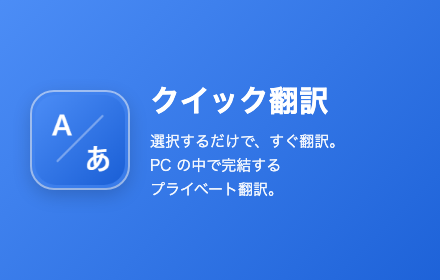
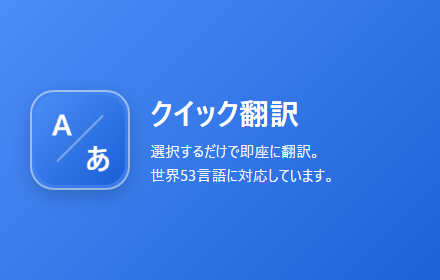
日本語以外は何でも翻訳する方式に戻し、Codex 監査の指摘に対応
- 翻訳する言語: 初期設定をすべての言語に戻し、設定画面でチェックを外した言語だけ翻訳しない(skipLangs)
- 英文にひらがな・カタカナが少し混ざるだけでは日本語扱いにしない
- 特殊トークンの除去を、なくなるまで繰り返す
- 右クリックは、今の選択が右クリックされた文章と同じときだけページ内で翻訳し、違うときは別ウィンドウで翻訳する
- ストア用画像の文言を変更(選択するだけで即座に翻訳、世界53言語に対応しています)
- 説明書・README・ストア掲載文を更新

Changed region(s): [[0.325, 0.2857, 0.7682, 0.7143]]

diff --git a/shared.js b/shared.js
@@ -1,19 +1,33 @@
 // content.js / background.js / options.js で共通の判定
 
-const DEFAULT_SOURCE_LANGS = ["en"]; // 初期設定で翻訳する言語
+// PLaMo 3 Translate の対応言語(よく使うものを先頭に)
+const LANGS = [
+  ["ja", "日本語"], ["en", "英語"], ["zh-hans", "中国語(簡体字)"], ["zh-hant", "中国語(繁体字)"],
+  ["ko", "韓国語"], ["fr", "フランス語"], ["de", "ドイツ語"], ["es", "スペイン語"], ["it", "イタリア語"],
+  ["ru", "ロシア語"], ["vi", "ベトナム語"], ["th", "タイ語"], ["id", "インドネシア語"], ["hi", "ヒンディー語"],
+  ["ar", "アラビア語"], ["nl", "オランダ語"], ["pl", "ポーランド語"], ["ms", "マレー語"], ["tl", "タガログ語"],
+  ["az", "アゼルバイジャン語"], ["be", "ベラルーシ語"], ["bg", "ブルガリア語"], ["bn", "ベンガル語"],
+  ["ca", "カタルーニャ語"], ["ceb", "セブアノ語"], ["et", "エストニア語"], ["eu", "バスク語"], ["fa", "ペルシア語"],
+  ["gu", "グジャラート語"], ["he", "ヘブライ語"], ["hr", "クロアチア語"], ["hu", "ハンガリー語"], ["hy", "アルメニア語"],
+  ["jv", "ジャワ語"], ["ka", "ジョージア語"], ["kk", "カザフ語"], ["km", "クメール語"], ["lt", "リトアニア語"],
+  ["lv", "ラトビア語"], ["ml", "マラヤーラム語"], ["mr", "マラーティー語"], ["my", "ビルマ語"], ["ne", "ネパール語"],
+  ["pa", "パンジャブ語"], ["si", "シンハラ語"], ["sk", "スロバキア語"], ["sl", "スロベニア語"], ["sr", "セルビア語"],
+  ["sw", "スワヒリ語"], ["ta", "タミル語"], ["te", "テルグ語"], ["ur", "ウルドゥー語"], ["uz", "ウズベク語"]
+];
 
 // 算用数字だけの選択(年号・金額・電話番号など)。桁区切りや日付の記号は数字の一部とみなす
 function isNumbersOnly(text) {
   return /\p{Nd}/u.test(text) && /^[\p{Nd}\s.,:\/+\-−．,:/+-]+$/u.test(text);
 }
 
-// ひらがな・カタカナを含めば日本語とみなす。
+// ひらがな・カタカナを含めば日本語とみなす。ただし、英文の中に日本語の語が少し混ざっているだけのときは除く
+// (ラテン文字が日本語の文字の 3 倍を超えるとき。「APIキーをGitHubで発行」のような文は日本語のまま)。
 // 「機械翻訳」のように漢字だけのときは中国語と区別できないので、ページが日本語なら日本語とみなす。
 function looksJapanese(text, pageLang) {
-  if (/[぀-ヿ]/.test(text)) return true;
-  const hasHan = /\p{Script=Han}/u.test(text);
-  const hasLatin = /\p{Script=Latin}/u.test(text);
-  return hasHan && !hasLatin && /^ja\b/i.test(pageLang || "");
+  const count = (re) => (text.match(re) || []).length;
+  const latin = count(/\p{Script=Latin}/gu);
+  if (/[぀-ヿ]/.test(text)) return latin <= count(/[぀-ヿ\p{Script=Han}]/gu) * 3;
+  return /\p{Script=Han}/u.test(text) && latin === 0 && /^ja\b/i.test(pageLang || "");
 }
 
 // 言語ごとの文字の種類。書いていない言語はラテン文字
@@ -41,16 +55,20 @@ async function detectLangs(text) {
   return result?.isReliable ? result.languages.map((l) => toModelLang(l.language)).filter((l) => l !== "und") : [];
 }
 
-// 選んだ文章が「翻訳する言語」に入っているか
-function isSourceAllowed(text, found, sourceLangs, targetLang) {
-  const langs = (sourceLangs ?? DEFAULT_SOURCE_LANGS).filter((l) => l !== targetLang);
-  if (found.length) return found.some((l) => langs.includes(l));
-  // 短い語句などで判定できないときは、文字の種類が合う言語が選ばれていれば翻訳する
-  return langs.some((l) => (LANG_SCRIPTS[l] || ["Latin"]).some((s) => new RegExp(`\\p{Script=${s}}`, "u").test(text)));
+// 選んだ文章を翻訳するか。翻訳先以外は何でも翻訳し、skipLangs(設定画面でチェックを外した言語)だけ除く
+function isSourceAllowed(text, found, skipLangs, targetLang) {
+  const skip = new Set(skipLangs || []);
+  if (found.length) return found[0] !== targetLang && !skip.has(found[0]);
+  if (!skip.size) return true;
+  // 短い語句などで判定できないときは、文字の種類で考える。
+  // その文字を使う言語がすべて除外されているときだけ翻訳しない(対応表にない文字は翻訳する)
+  const usesScript = (code) => (LANG_SCRIPTS[code] || ["Latin"]).some((s) => new RegExp(`\\p{Script=${s}}`, "u").test(text));
+  const matched = LANGS.map(([code]) => code).filter(usesScript);
+  return !matched.length || matched.some((code) => code !== targetLang && !skip.has(code));
 }
 
 // 翻訳先の言語を決める。翻訳しないときは target が "" で、reason にその理由が入る。
-// s は targetLang / altLang / sourceLangs を持つ設定
+// s は targetLang / altLang / skipLangs を持つ設定
 async function decideTarget(text, s, pageLang) {
   if (isNumbersOnly(text)) return { target: "", reason: "numbers" };
   const found = await detectLangs(text);
@@ -58,6 +76,6 @@ async function decideTarget(text, s, pageLang) {
   if (s.targetLang === "ja" && (looksJapanese(text, pageLang) || found[0] === "ja")) {
     return { target: s.altLang || "", reason: "japanese" };
   }
-  if (isSourceAllowed(text, found, s.sourceLangs, s.targetLang)) return { target: s.targetLang, reason: "" };
+  if (isSourceAllowed(text, found, s.skipLangs, s.targetLang)) return { target: s.targetLang, reason: "" };
   return { target: "", reason: "language" };
 }

diff --git a/options.js b/options.js
@@ -7,7 +7,7 @@ const DEFAULTS = {
   apiKey: "",
   targetLang: "ja",
   altLang: "", // "" = 日本語の文章は翻訳しない
-  sourceLangs: DEFAULT_SOURCE_LANGS,
+  skipLangs: [], // 翻訳しない言語(初期設定は、なし = 何でも翻訳する)
   keepTerms: "",
   autoKeepNames: false,
   form: "",
@@ -20,20 +20,6 @@ const LOCAL_SERVER_KEY = "plamo-select-translate";
 const BOOL_KEYS = ["useTitleContext", "autoTranslate", "autoKeepNames"];
 const $ = (id) => document.getElementById(id);
 
-// PLaMo 3 Translate の対応言語(よく使うものを先頭に)
-const LANGS = [
-  ["ja", "日本語"], ["en", "英語"], ["zh-hans", "中国語(簡体字)"], ["zh-hant", "中国語(繁体字)"],
-  ["ko", "韓国語"], ["fr", "フランス語"], ["de", "ドイツ語"], ["es", "スペイン語"], ["it", "イタリア語"],
-  ["ru", "ロシア語"], ["vi", "ベトナム語"], ["th", "タイ語"], ["id", "インドネシア語"], ["hi", "ヒンディー語"],
-  ["ar", "アラビア語"], ["nl", "オランダ語"], ["pl", "ポーランド語"], ["ms", "マレー語"], ["tl", "タガログ語"],
-  ["az", "アゼルバイジャン語"], ["be", "ベラルーシ語"], ["bg", "ブルガリア語"], ["bn", "ベンガル語"],
-  ["ca", "カタルーニャ語"], ["ceb", "セブアノ語"], ["et", "エストニア語"], ["eu", "バスク語"], ["fa", "ペルシア語"],
-  ["gu", "グジャラート語"], ["he", "ヘブライ語"], ["hr", "クロアチア語"], ["hu", "ハンガリー語"], ["hy", "アルメニア語"],
-  ["jv", "ジャワ語"], ["ka", "ジョージア語"], ["kk", "カザフ語"], ["km", "クメール語"], ["lt", "リトアニア語"],
-  ["lv", "ラトビア語"], ["ml", "マラヤーラム語"], ["mr", "マラーティー語"], ["my", "ビルマ語"], ["ne", "ネパール語"],
-  ["pa", "パンジャブ語"], ["si", "シンハラ語"], ["sk", "スロバキア語"], ["sl", "スロベニア語"], ["sr", "セルビア語"],
-  ["sw", "スワヒリ語"], ["ta", "タミル語"], ["te", "テルグ語"], ["ur", "ウルドゥー語"], ["uz", "ウズベク語"]
-];
 $("altLang").add(new Option("なし(翻訳しない)", ""));
 for (const id of ["targetLang", "altLang"]) {
   for (const [code, name] of LANGS) $(id).add(new Option(`${name} (${code})`, code));
@@ -55,17 +41,17 @@ const sourceBoxes = () => [...$("sourceLangs").querySelectorAll("input")];
 // 翻訳先と同じ言語は選べないようにして、選択中の言語を表示する
 function refreshSourceLangs() {
   const target = $("targetLang").value;
-  const names = [];
+  const names = [], off = [];
   for (const box of sourceBoxes()) {
     const name = LANGS.find(([code]) => code === box.value)[1];
     const isTarget = box.value === target;
     box.disabled = isTarget;
     box.nextElementSibling.textContent = isTarget ? `${name}(翻訳先)` : name;
-    if (box.checked && !isTarget) names.push(name);
+    if (!isTarget) (box.checked ? names : off).push(name);
   }
-  $("sourceSummary").textContent = names.length
-    ? `選択中: ${names.slice(0, 5).join("、")}${names.length > 5 ? ` ほか ${names.length - 5} 言語` : ""}`
-    : "選択されていません";
+  $("sourceSummary").textContent = !names.length ? "選択されていません"
+    : !off.length ? "すべての言語を翻訳します"
+    : `翻訳しない言語: ${off.slice(0, 5).join("、")}${off.length > 5 ? ` ほか ${off.length - 5} 言語` : ""}`;
 }
 $("sourceLangs").addEventListener("change", refreshSourceLangs);
 $("targetLang").addEventListener("change", refreshSourceLangs);
@@ -109,7 +95,7 @@ Promise.all([chrome.storage.sync.get(null), chrome.storage.local.get("apiKey")])
   for (const k of BOOL_KEYS) $(k).checked = s[k];
   $("apiKey").value = local.apiKey || "";
   $("wordThreshold").value = String(s.wordThreshold);
-  for (const box of sourceBoxes()) box.checked = s.sourceLangs.includes(box.value);
+  for (const box of sourceBoxes()) box.checked = !s.skipLangs.includes(box.value);
   showMode();
   refreshSourceLangs();
 });
@@ -153,7 +139,7 @@ function readForm() {
   v.longUrl ||= DEFAULTS.longUrl;
   v.model ||= DEFAULTS.model;
   v.wordThreshold = Number($("wordThreshold").value) || DEFAULTS.wordThreshold;
-  v.sourceLangs = sourceBoxes().filter((box) => box.checked).map((box) => box.value);
+  v.skipLangs = sourceBoxes().filter((box) => !box.checked).map((box) => box.value);
   return v;
 }
 
@@ -164,7 +150,7 @@ function flash(el, text, cls) {
 
 $("save").addEventListener("click", async () => {
   const v = readForm();
-  if (!v.sourceLangs.some((l) => l !== v.targetLang)) {
+  if (!sourceBoxes().some((box) => box.checked && box.value !== v.targetLang)) {
     return flash($("msg"), "「翻訳する言語」を 1 つ以上選んでください(翻訳先と同じ言語は数えません)", "ng");
   }
   const urls = targets(v).map(([, u]) => u);
@@ -175,7 +161,7 @@ $("save").addEventListener("click", async () => {
   }
   const apiKey = $("apiKey").value.trim();
   await chrome.storage.sync.set(v);
-  await chrome.storage.sync.remove(["serverMode", "baseUrl"]); // 1.2.x までの古い設定は消す
+  await chrome.storage.sync.remove(["serverMode", "baseUrl", "sourceLangs"]); // 1.2.x までの古い設定は消す
   await chrome.storage.local.set({ apiKey });
   flash($("msg"), "保存しました", "ok");
   setTimeout(() => flash($("msg"), ""), 2000);

diff --git a/content.js b/content.js
@@ -179,13 +179,13 @@
       if (!alive()) return;
       let s;
       try {
-        s = await chrome.storage.sync.get(["autoTranslate", "targetLang", "altLang", "sourceLangs"]);
+        s = await chrome.storage.sync.get(["autoTranslate", "targetLang", "altLang", "skipLangs"]);
       } catch (_) {
         return;
       }
       if (s.autoTranslate === false) return;
       // 翻訳しない文章なら、パネルを出さずに何もしない
-      const settings = { targetLang: s.targetLang || "ja", altLang: s.altLang ?? "", sourceLangs: s.sourceLangs };
+      const settings = { targetLang: s.targetLang || "ja", altLang: s.altLang ?? "", skipLangs: s.skipLangs };
       if (!(await decideTarget(picked.text, settings, document.documentElement.lang)).target) return;
       translate();
     }, 10);
@@ -206,7 +206,13 @@
     const isPdf = document.contentType === "application/pdf";
     // ショートカットはタブ全体に届くので、操作中のフレームだけが受け持つ(ほかのフレームに残った選択を訳さない)
     const active = m.selectionText || (document.hasFocus() && !/^I?FRAME$/.test(document.activeElement?.tagName || ""));
-    if (getSelected() && active) {
+    // 右クリックのときは、今の選択が右クリックされた文章と同じ場合だけ受け持つ。
+    // 違う場合(選択が消えた、別の枠に別の選択が残っているなど)は受け持たず、右クリックされた文章を別ウィンドウで翻訳する。
+    // 改行や空白の扱いが Chrome と異なることがあるので、空白を除いた先頭 100 文字で比べる
+    const key = (s) => s.replace(/\s+/g, "").slice(0, 100);
+    const picked = getSelected();
+    const sameText = !m.selectionText || (picked && key(picked.text) === key(m.selectionText));
+    if (picked && active && sameText) {
       translate(true);
     } else if (isPdf && m.selectionText) {
       translate(true, m.selectionText);

diff --git a/background.js b/background.js
@@ -11,7 +11,7 @@ const DEFAULTS = {
   apiKey: "",
   targetLang: "ja", // 翻訳先
   altLang: "",      // 選択テキストが日本語だったときの翻訳先("" = 翻訳しない)
-  sourceLangs: DEFAULT_SOURCE_LANGS, // 翻訳する言語
+  skipLangs: [],    // 翻訳しない言語(初期設定は、なし = 何でも翻訳する)
   keepTerms: "",    // 翻訳せずに残す語(1 行に 1 語)
   autoKeepNames: false, // 文の途中で大文字から始まる語も残す
   form: "",         // "" | "plain" | "polite"(日本語出力時の文体)
@@ -154,8 +154,14 @@ function safePost(port, m) {
 
 // 入力に特殊トークン(<|plamo:...|> の形)が混ざるとプロンプト構造が壊れるので除去する。
 // plamo: 以外の、<| |> で囲まれた予約トークン風の文字列も念のため除去する。
+// 取り除いた結果つながって新しいトークンができないよう、なくなるまで繰り返す。
 function clean(s) {
-  return String(s).replace(/<\|[^<>|\s]{1,40}\|>/g, "");
+  let out = String(s), prev;
+  do {
+    prev = out;
+    out = out.replace(/<\|[^<>|\s]{1,40}\|>/g, "");
+  } while (out !== prev);
+  return out;
 }
 
 // 大文字で始まる語のうち、普段から訳す語(月・曜日)は自動では残さない

diff --git a/store/screenshot.html b/store/screenshot.html
@@ -31,6 +31,6 @@
     <p style="margin-top:100px">Small models have improved dramatically. A model with less than one billion parameters can now rival much larger systems on everyday text.</p>
   </article>
   <div class="panel">コンパクトな翻訳モデルをローカルで動作させれば、インターネット接続がなくても閲覧内容が非公開に保たれ、ほぼ即座に応答します。</div>
-  <div class="callout">選択するだけで、すぐ翻訳<small>PC 上の PLaMo 3 Translate で動作 · 文章は外部に送信されません</small></div>
+  <div class="callout">選択するだけで即座に翻訳<small>PC 上の PLaMo 3 Translate で動作 · 文章は外部に送信されません</small></div>
 </div>
 </body></html>

diff --git a/options.html b/options.html
@@ -125,7 +125,7 @@
   <small id="sourceSummary"></small>
 </div>
 <div id="sourceLangs" class="langs"></div>
-<small>チェックを入れた言語の文章だけを翻訳します。初期設定は英語だけです。短い語句で言語を判定できないときは、同じ文字を使う言語にチェックがあれば翻訳します。</small>
+<small>日本語以外は何でも翻訳します。翻訳したくない言語はチェックを外してください。短い語句で言語を判定できないときは、同じ文字を使う言語がすべて外れている場合だけ翻訳しません。</small>
 
 <label for="targetLang">翻訳先の言語</label>
 <select id="targetLang"></select>

diff --git a/store/promo-tile.html b/store/promo-tile.html
@@ -9,5 +9,5 @@
 </style></head>
 <body>
   <img src="../icons/icon128.png">
-  <div><h1>クイック翻訳</h1><p>選択するだけで、すぐ翻訳。<br>PC の中で完結する<br>プライベート翻訳。</p></div>
+  <div><h1>クイック翻訳</h1><p>選択するだけで即座に翻訳。<br>世界53言語に対応しています。</p></div>
 </body></html>

diff --git a/README.md b/README.md
@@ -6,7 +6,7 @@ Web ページで選択したテキストを、自分の PC で動かす **PLaMo 
 
 - テキストを選ぶだけで、すぐ下に翻訳が表示されます。
 - 翻訳は PC の中で完結します。初期設定では文章が外部に送られず、API キーや利用料も不要です。
-- 初期設定では英語の文章を日本語に翻訳します。翻訳する言語は設定画面で自由に追加・除外でき、翻訳先は 53 言語から選べます。日本語の文章や数字だけの選択は、初期設定では翻訳しません。
+- 日本語以外の文章を日本語に翻訳します。翻訳したくない言語は設定画面で外せて、翻訳先は 53 言語から選べます。日本語の文章や数字だけの選択は、初期設定では翻訳しません。
 - 人名や専門用語など、翻訳せずに原語のまま残す語を登録できます。
 - PDF は、文章を選んで右クリックメニューから翻訳できます。
 - モデルは 0.8B(速い)・2B(訳文が少し自然)・使い分け(短い語句は 0.8B、文章は 2B)から、拡張機能の設定画面でいつでも切り替えられます(2B を使う場合は、翻訳サーバーを「0.8B と 2B」で起動します)。

diff --git a/store/STORE_LISTING.md b/store/STORE_LISTING.md
@@ -34,7 +34,7 @@ Chrome Web Store デベロッパー ダッシュボード(https://chrome.google.
 
 ■ 主な機能
 ・テキストを選択すると自動で翻訳(オフにして右クリックや Alt+T で翻訳することもできます)
-・初期設定では英語の文章を日本語に翻訳(翻訳する言語は設定で追加・除外でき、翻訳先は 53 言語から選択可能)
+・日本語以外の文章を日本語に翻訳(翻訳したくない言語は設定で外せて、翻訳先は 53 言語から選択可能)
 ・人名や専門用語など、翻訳せずに原語のまま残す語を登録可能
 ・PDF は右クリックメニューから翻訳
 ・入力欄の中で選んだ文章も翻訳可能
